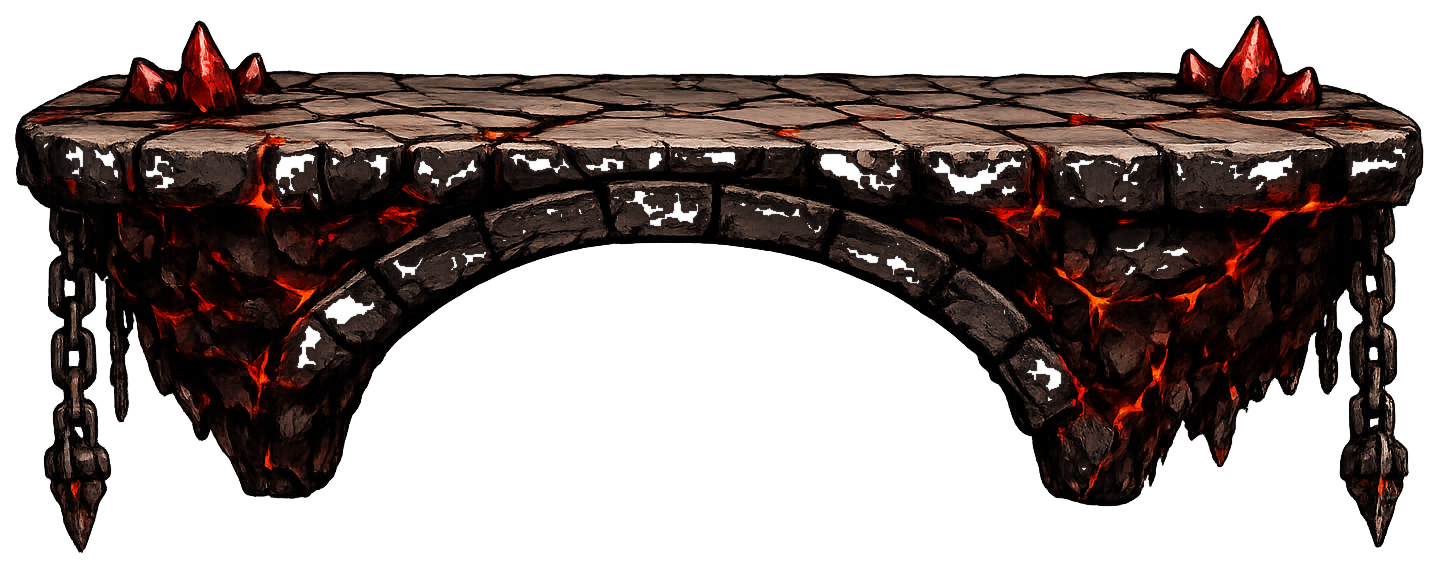
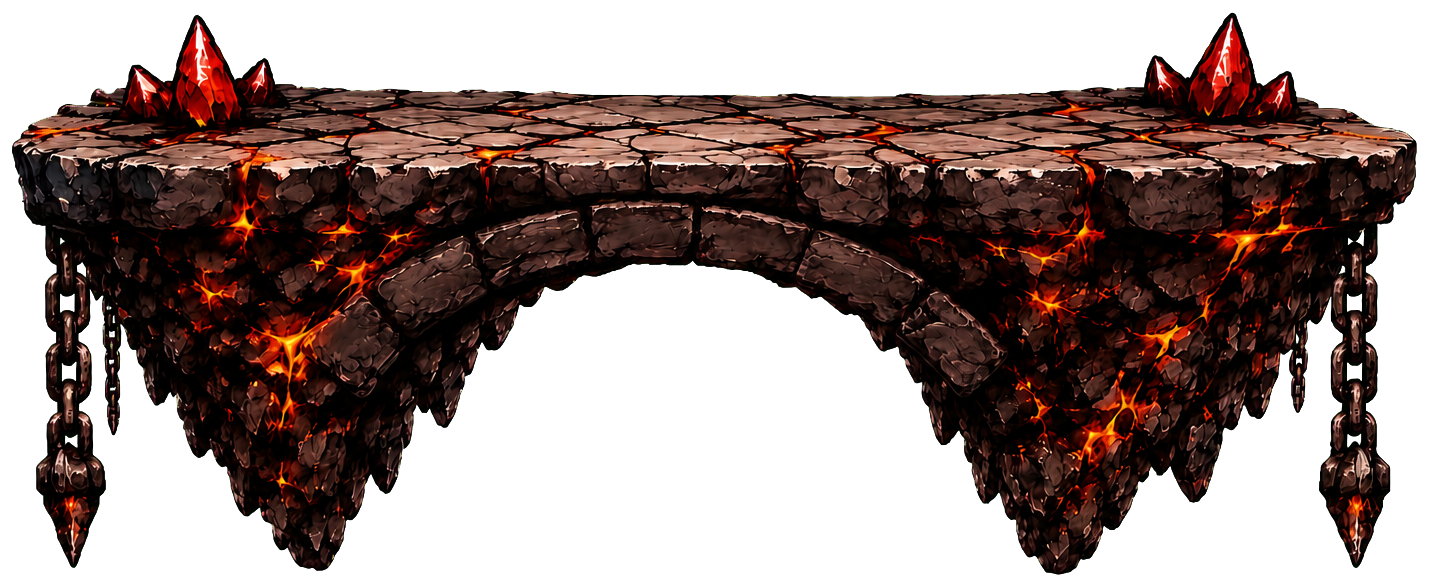
Replace Colt Run platform 07

diff --git a/app.js b/app.js
@@ -1966,7 +1966,7 @@ function startColtRunGame() {
   const smallPlatformSpriteIndex = 21;
   const platformSprites = Array.from({ length: 22 }, (_, index) => {
     const sprite = new Image();
-    sprite.src = `assets/colt-run-platform-${String(index + 1).padStart(2, "0")}.png?v=20260718-platform03-replace1`;
+    sprite.src = `assets/colt-run-platform-${String(index + 1).padStart(2, "0")}.png?v=20260718-platform07-replace1`;
     return sprite;
   });
   const platformSurfaceRatios = [0.24, 0.27, 0.20, 0.18, 0.24, 0.27, 0.22, 0.25, 0.35, 0.24, 0.23, 0.22, 0.42, 0.52, 0.41, 0.13, 0.52, 0.50, 0.47, 0.50, 0.22, 0.18];

diff --git a/index.html b/index.html
@@ -8,7 +8,7 @@
 </head>
 <body>
   <main id="app" class="app-shell"></main>
-  <script src="app.js?v=20260718-platform03-replace1"></script>
+  <script src="app.js?v=20260718-platform07-replace1"></script>
 </body>
 </html>
 
